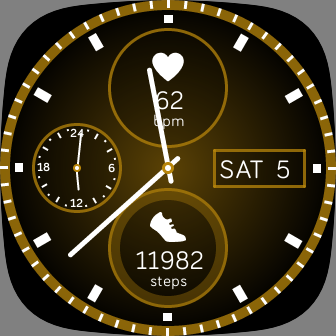
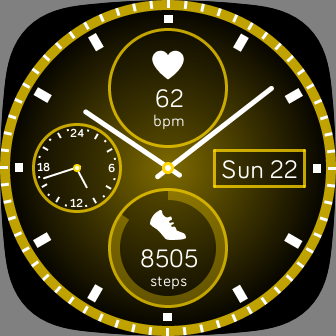
i18n & debug code

diff --git a/app/index.js b/app/index.js
@@ -21,27 +21,21 @@ let minuteHand = document.getElementById("minuteHand");
 let secondHand = document.getElementById("secondHand");
 let hourHand24 = document.getElementById("hourHand24");
 let backgroundGradient = document.getElementById("backgroundGradient");
-let dayField = document.getElementById("dayField");
 let dateField = document.getElementById("dateField");
 let hrField = document.getElementById("hrField");
 
 let stepsField = document.getElementById("stepsField");
 let stepsMeter = document.getElementById("stepsMeter");
-
 let floorsField = document.getElementById("floorsField");
 let floorsMeter = document.getElementById("floorsMeter");
-
 let distField = document.getElementById("distField");
 let distMeter = document.getElementById("distMeter");
 let dist = 0;
 let distGoal = 0;
-
 let calsField = document.getElementById("calsField");
 let calsMeter = document.getElementById("calsMeter");
-
 let azmField = document.getElementById("azmField");
 let azmMeter = document.getElementById("azmMeter");
-
 let batteryField = document.getElementById("batteryField");
 let batteryMeter = document.getElementById("batteryMeter");
 
@@ -139,14 +133,35 @@ function getProgressAngle(progress, goal) {
   return arc;
 }
 
+let debug = false;
+let weekdayNum = 0;
+let date = 1; 
+let hh = 10;
+let mm = 8;
+let ss = 42;
+let dayName = "MON";
+
 clock.granularity = "seconds";
 clock.ontick = (evt) => {
-  dayField.text = days[evt.date.getDay()];
-  dateField.text = evt.date.getDate();
-  hourHand.groupTransform.rotate.angle = (30 * (evt.date.getHours() % 12)) + (0.5 * evt.date.getMinutes());
-  minuteHand.groupTransform.rotate.angle = (6 * evt.date.getMinutes()) + (0.1 * evt.date.getSeconds());
-  secondHand.groupTransform.rotate.angle = (6 * evt.date.getSeconds());
-  hourHand24.groupTransform.rotate.angle = (15 * evt.date.getHours()) + (0.25 * evt.date.getMinutes());
+
+  if (debug) {
+    weekdayNum = (weekdayNum < 6) ? weekdayNum + 1 : 0;
+    date = (date < 31) ? date +1 : 1;
+  } else {
+    weekdayNum = evt.date.getDay();
+    date = evt.date.getDate(); 
+    hh = evt.date.getHours();
+    mm = evt.date.getMinutes();
+    ss = evt.date.getSeconds();
+  }
+
+  dayName = gettext(`day_short_${weekdayNum}`);
+  dateField.text = `${dayName} ${date}`
+  hourHand.groupTransform.rotate.angle = (30 * (hh % 12)) + (0.5 * mm);
+  minuteHand.groupTransform.rotate.angle = (6 * mm) + (0.1 * ss);
+  secondHand.groupTransform.rotate.angle = (6 * ss);
+  hourHand24.groupTransform.rotate.angle = (15 * hh) + (0.25 * mm);
+
   if (today.adjusted.steps != undefined) {
     stepsField.text = today.adjusted.steps;
     stepsMeter.sweepAngle = getProgressAngle(today.adjusted.steps, goals.steps)

diff --git a/resources/styles.css b/resources/styles.css
@@ -19,6 +19,7 @@
   text-anchor: middle;
   font-family: Seville-Regular;
   font-size: 26;
+  text-length: "8"
 }
 
 .statsUnit {
@@ -52,22 +53,13 @@
   font-size: 14;
 }
 
-.dayField {
-  x: 28;
-  y: 50%+10; 
-  text-anchor: middle;
-  font-family: Seville-Regular;
-  font-size: 26;
-  text-length: 8;
-}
-
 .dateField {
-  x: 100%-21;
+  x: 45;
   y: 50%+10;
   text-anchor: middle;
   font-family: Seville-Regular;
   font-size: 26;
-  text-length: 4;
+  text-length: 8;
 }
 
 .hourMarker24text {
@@ -76,11 +68,21 @@
   font-size: 12;
 }
 
-.meterArc {
+.statsMeter {
   x: 3;
   y: 3;
   width: 114;
   height: 114;
+  arc-width: 9;
+  start-angle: 0;
+  opacity: 0.35;
+}
+
+.batteryMeter {
+  x: 3;
+  y: 3;
+  width: 84;
+  height: 84;
   arc-width: 9;
   start-angle: 0;
   opacity: 0.35;
